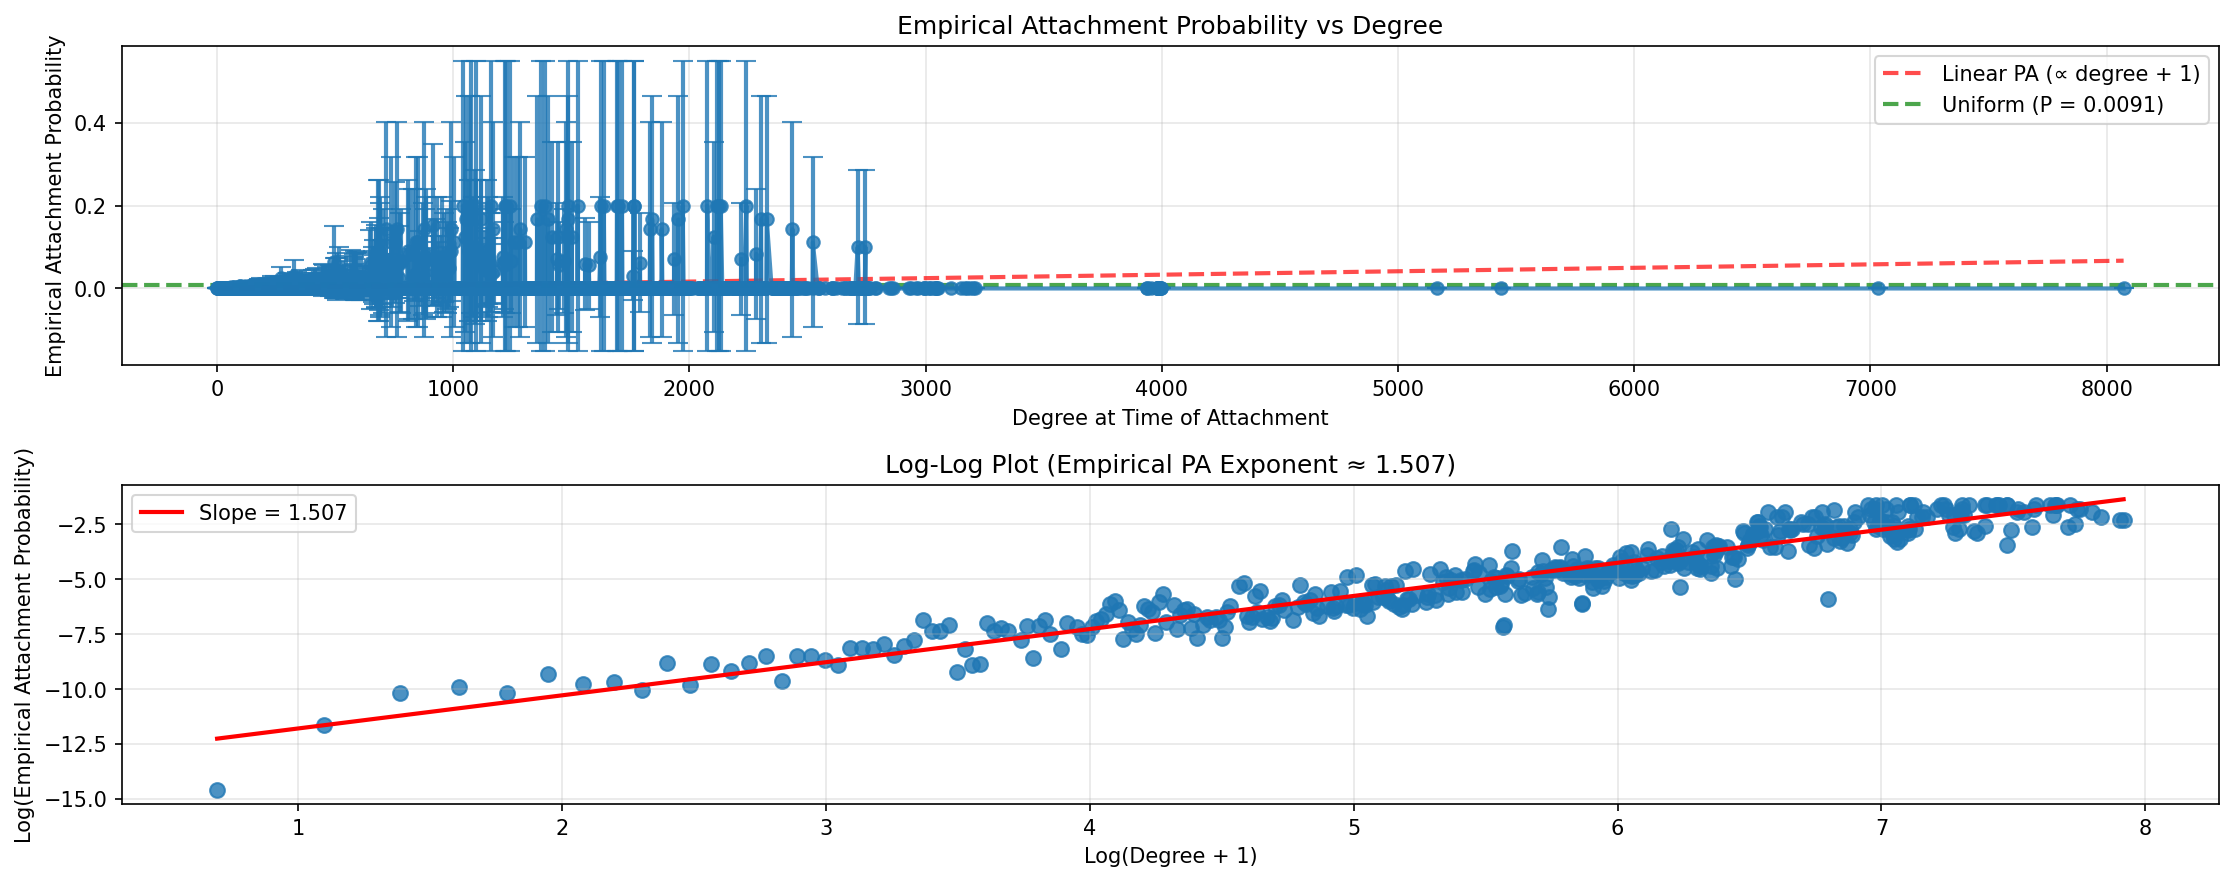
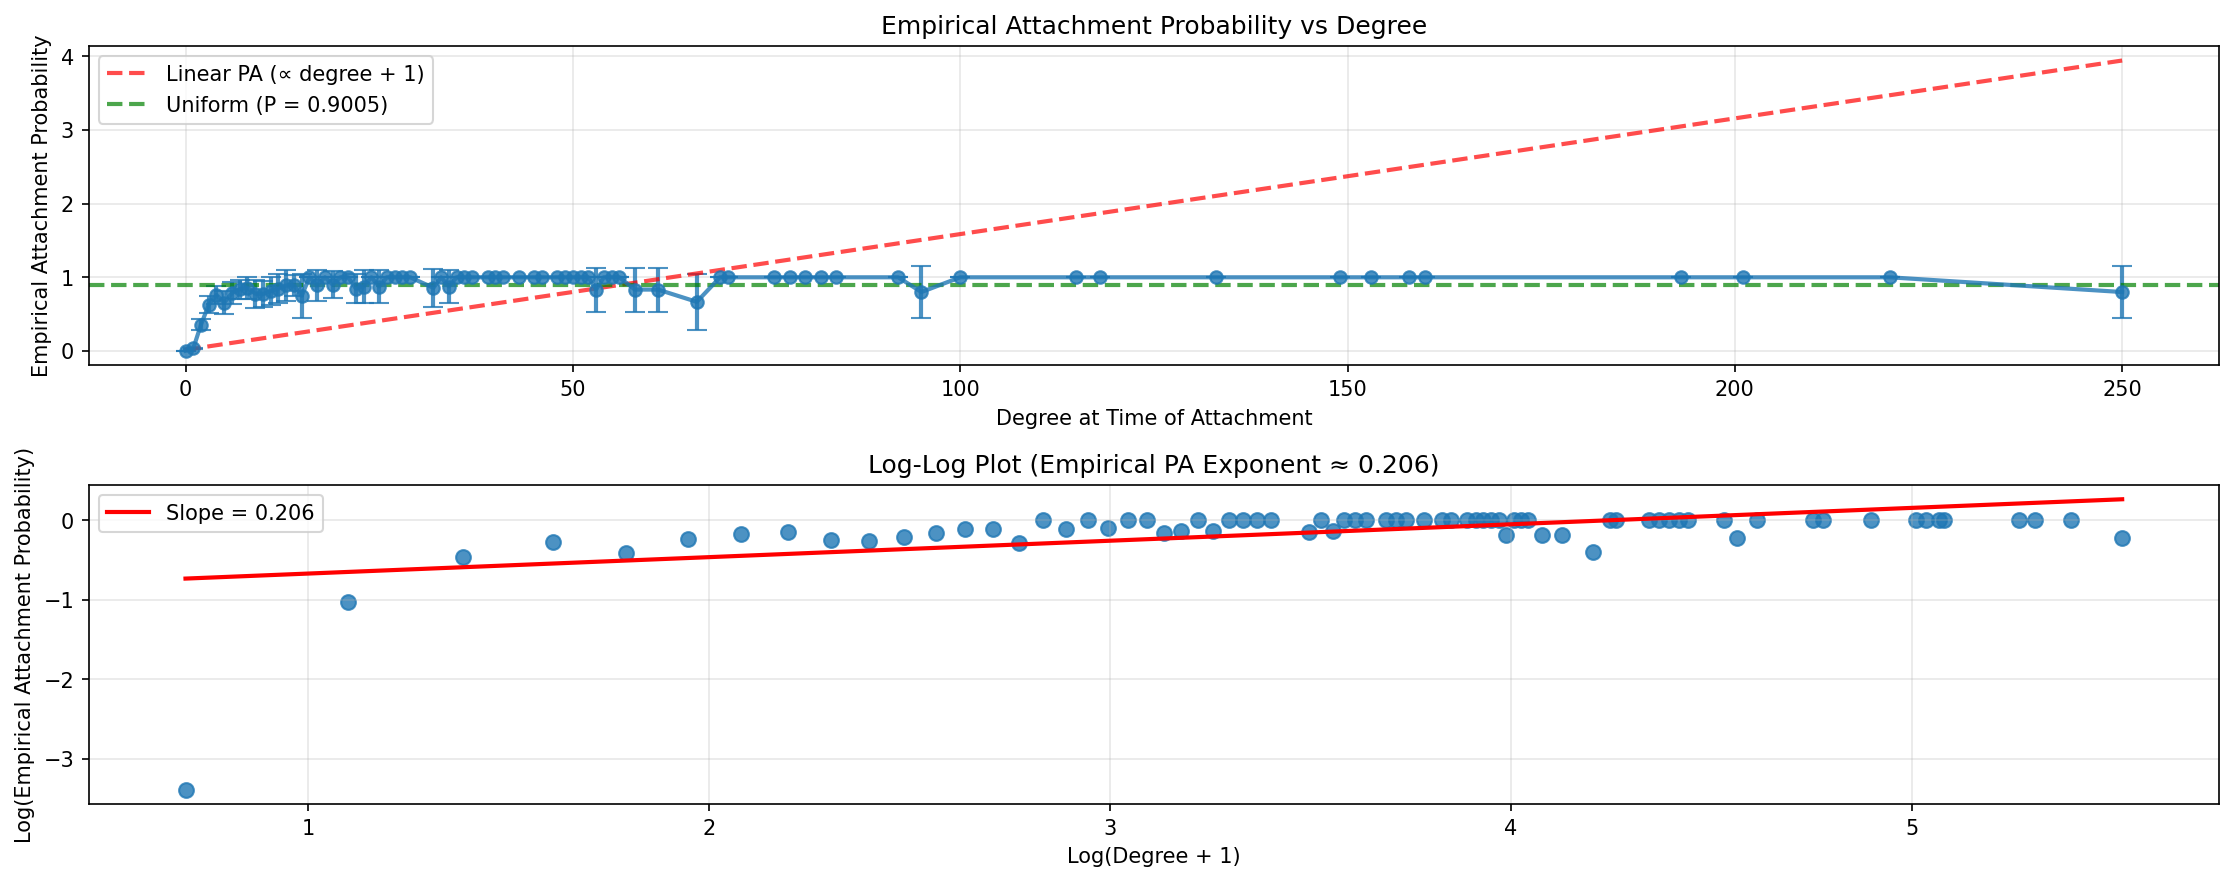
Negative sampling and parallel processing

diff --git a/tori_test.py b/tori_test.py
@@ -2,19 +2,29 @@ import numpy as np
 import matplotlib.pyplot as plt
 import pickle
 import networkx as nx
-import random
 from datetime import datetime
-from collections import defaultdict, Counter
-import json
+from collections import defaultdict
+import bisect
+from multiprocessing import Pool, cpu_count
+from functools import partial
 
 def parse_date(date_str):
     return datetime.fromisoformat(date_str.replace('Z', '+00:00'))
 
-def analyze_empirical_attachment_probs(G, sample_size=None):
+def parse_licenses(license_str):
+    licenses = []
+    license_str = license_str.strip('[]')
+    for license_name in license_str.split(','):
+        license_name = license_name.strip() 
+        license_name = license_name.strip("'")
+        if len(license_name) > 0:
+            licenses.append(license_name)
+    return licenses
+
+def precompute_graph_data(G):
     """
-    P(attach to degree k) = (times degree k was chosen) / (times degree k was available)
+    Precompute adjacency with neighbor timestamps for faster degree calculation / lookups
     """
-        
     node_dates = {}
     for node, attrs in G.nodes.data():
         if 'createdAt' in attrs:
@@ -22,89 +32,147 @@ def analyze_empirical_attachment_probs(G, sample_size=None):
                 node_dates[node] = parse_date(attrs['createdAt'])
             except:
                 continue
+    
+    adjacency_with_dates = {}
+    for node in G.nodes():
+        neighbors = set(G.predecessors(node)) | set(G.successors(node))
+        adjacency_with_dates[node] = [
+            (neighbor, node_dates.get(neighbor)) 
+            for neighbor in neighbors 
+            if neighbor in node_dates
+        ]
+    
+    return node_dates, adjacency_with_dates
+
+def compute_degree_at_time_fast(neighbor_date_pairs, attachment_time):
+    return sum(1 for _, date in neighbor_date_pairs if date < attachment_time)
+
+def process_edge_chunk(edge_chunk, node_array, date_array, adjacency_with_dates, negative_sample_ratio):
+    """
+    Process a chunk of edges in parallel.
+    Returns: 
+        - local degree opportunities 
+        - degree chosen counts
+    """
+    local_opportunities = defaultdict(int)
+    local_chosen = defaultdict(int)
+    
+    for attachment_time, newer_node, target_node in edge_chunk:
+        # Binary search to find available nodes
+        idx = bisect.bisect_left(date_array, attachment_time)
+        mask = node_array[:idx] != newer_node
+        available_nodes = node_array[:idx][mask]
         
-    edges_with_dates = []
-    for u, v in G.edges():
-        if u in node_dates and v in node_dates:
-            u_date = node_dates[u]
-            v_date = node_dates[v]
+        if len(available_nodes) < 2:
+            continue
+        
+        # Compute target degree (positive sample)
+        if target_node in adjacency_with_dates:
+            target_degree = compute_degree_at_time_fast(
+                adjacency_with_dates[target_node], attachment_time
+            )
+            local_chosen[target_degree] += 1
+            local_opportunities[target_degree] += 1
+        
+        # Sample negatives
+        non_target_mask = available_nodes != target_node
+        non_target_nodes = available_nodes[non_target_mask]
+        
+        if len(non_target_nodes) == 0:
+            continue
             
-            if u_date != v_date: 
-                # (attachment_time, newer_node, older_node)
-                if u_date < v_date:
-                    edges_with_dates.append((v_date, v, u))  # v attached to u
-                else:
-                    edges_with_dates.append((u_date, u, v))  # u attached to v
+        num_negatives = min(negative_sample_ratio, len(non_target_nodes))
+        negative_indices = np.random.choice(len(non_target_nodes), num_negatives, replace=False)
+        
+        for idx in negative_indices:
+            neg_node = non_target_nodes[idx]
+            if neg_node in adjacency_with_dates:
+                neg_degree = compute_degree_at_time_fast(
+                    adjacency_with_dates[neg_node], attachment_time
+                )
+                local_opportunities[neg_degree] += 1
+    
+    return dict(local_opportunities), dict(local_chosen)
+
+def analyze_empirical_attachment_probs(G, sample_size=None, negative_sample_ratio=5, n_jobs=None):
+    """
+    Parallel version using multiprocessing for very large graphs.
+    
+    Args:
+        G: NetworkX graph
+        sample_size: Number of edges to sample (None = use all)
+        negative_sample_ratio: Number of negative samples per positive
+        n_jobs: Number of parallel workers (None = use all CPU cores)
+    
+    Returns:
+        empirical_probs: Dictionary of degree -> attachment probability
+        degree_opportunities: Dictionary of degree -> number of times available
+        degree_chosen: Dictionary of degree -> number of times chosen
+    """
+    if n_jobs is None:
+        n_jobs = cpu_count()
+    
+    # print(f"Using {n_jobs} parallel workers...")
+    
+
+    node_dates, adjacency_with_dates = precompute_graph_data(G)
+
+    edges_with_dates = [
+        (v_date, v, u) if u_date < v_date else (u_date, u, v)
+        for u, v in G.edges()
+        if (u_date := node_dates.get(u)) and (v_date := node_dates.get(v)) and u_date != v_date
+    ]
     
     edges_with_dates.sort(key=lambda x: x[0])
     
     if sample_size and len(edges_with_dates) > sample_size:
-        sampled_indices = sorted(random.sample(range(len(edges_with_dates)), sample_size))
-        edges_with_dates = [edges_with_dates[i] for i in sampled_indices]
+        sampled_indices = np.random.choice(len(edges_with_dates), sample_size, replace=False)
+        edges_with_dates = [edges_with_dates[i] for i in sorted(sampled_indices)]
     
-    degree_opportunities = defaultdict(int)  # Times each degree was available
-    degree_chosen = defaultdict(int)         # Times each degree was actually chosen
+    # print(f"Processing {len(edges_with_dates)} edges...")
     
-    attachment_events = []
+    sorted_nodes = sorted(node_dates.items(), key=lambda x: x[1])
+    node_array = np.array([n[0] for n in sorted_nodes], dtype=object)
+    date_array = np.array([n[1] for n in sorted_nodes])
     
-    for i, (attachment_time, newer_node, target_node) in enumerate(edges_with_dates):
-        # Find all nodes that existed before this attachment time
-        available_nodes = []
-        for node, creation_date in node_dates.items():
-            if creation_date < attachment_time and node != newer_node:
-                available_nodes.append(node)
-        
-        if len(available_nodes) < 2:  
-            continue
-            
-        # Calculate degree of each available node at attachment time
-        node_degrees_at_time = {}
-        
-        for node in available_nodes:
-            degree_at_time = 0
-            all_neighbors = set(G.predecessors(node)) | set(G.successors(node))
-            
-            for neighbor in all_neighbors:
-                if neighbor in node_dates and node_dates[neighbor] < attachment_time:
-                    degree_at_time += 1
-            
-            node_degrees_at_time[node] = degree_at_time
-        
-        for node, degree in node_degrees_at_time.items():
-            degree_opportunities[degree] += 1
-        
-        if target_node in node_degrees_at_time:
-            target_degree = node_degrees_at_time[target_node]
-            degree_chosen[target_degree] += 1
-            
-            attachment_events.append({
-                'target_node': target_node,
-                'newer_node': newer_node,
-                'target_degree': target_degree,
-                'attachment_time': attachment_time,
-                'num_choices_available': len(available_nodes),
-                'available_degrees': list(node_degrees_at_time.values()),
-                'mean_available_degree': np.mean(list(node_degrees_at_time.values())),
-                'max_available_degree': max(node_degrees_at_time.values()) if node_degrees_at_time else 0
-            })
-    
-    empirical_probs = {}
-    degree_counts = {}
-    
-    for degree in degree_opportunities.keys():
-        opportunities = degree_opportunities[degree]
-        chosen = degree_chosen[degree]
-        
-        if opportunities > 0:
-            empirical_probs[degree] = chosen / opportunities
-            degree_counts[degree] = chosen
-        else:
-            empirical_probs[degree] = 0
-            degree_counts[degree] = 0
-    
-    return attachment_events, empirical_probs, degree_opportunities, degree_chosen
 
-def plot_empirical_attachment_analysis(attachment_events, empirical_probs, degree_opportunities, degree_chosen, min_opportunities=5):
+    chunk_size = max(1, len(edges_with_dates) // n_jobs)
+    chunks = [edges_with_dates[i:i + chunk_size] for i in range(0, len(edges_with_dates), chunk_size)]
+    
+    print(f"Split into {len(chunks)} chunks of ~{chunk_size} edges each")
+    
+    process_func = partial(
+        process_edge_chunk,
+        node_array=node_array,
+        date_array=date_array,
+        adjacency_with_dates=adjacency_with_dates,
+        negative_sample_ratio=negative_sample_ratio
+    )
+    
+    with Pool(n_jobs) as pool:
+        results = pool.map(process_func, chunks)
+    
+    # Merge results from all workers
+    degree_opportunities = defaultdict(int)
+    degree_chosen = defaultdict(int)
+    
+    for local_opp, local_chosen in results:
+        for degree, count in local_opp.items():
+            degree_opportunities[degree] += count
+        for degree, count in local_chosen.items():
+            degree_chosen[degree] += count
+    
+    empirical_probs = {
+        degree: degree_chosen[degree] / degree_opportunities[degree]
+        for degree in degree_opportunities.keys()
+        if degree_opportunities[degree] > 0
+    }
+    
+    print(f"Analyzed {len(degree_opportunities)} unique degree values")
+    
+    return empirical_probs, degree_opportunities, degree_chosen
+
+def plot_empirical_attachment_analysis(empirical_probs, degree_opportunities, degree_chosen, min_opportunities=5):
     
     filtered_degrees = []
     filtered_probs = []
@@ -194,25 +262,59 @@ def plot_empirical_attachment_analysis(attachment_events, empirical_probs, degre
     
     return filtered_degrees, filtered_probs, filtered_opportunities
 
+# def plot_license_data(G):
+#     license_children = defaultdict(list)
+#     for node_name in G.nodes:
+#         node = G.nodes[node_name]
+#         licenses = parse_licenses(node['licenses'])
+#         for license in licenses:
+#             license_children[license].append(len(set(G.successors(node_name))))
+    
+
+#     avgs = defaultdict(int)
+#     for license in license_children:
+#         avg = sum(license_children[license]) / len(license_children[license])
+#         if avg > 0.01:
+#             avgs[license] = avg
+
+#     fig, ax = plt.subplots(1,1,figsize=(25, 12))
+
+#     licenses = avgs.keys() 
+#     counts = avgs.values()
+#     ax.bar(licenses, counts, label=licenses)
+#     print(licenses)
+#     ax.set_ylabel('Average # of Children')
+#     ax.set_title('Avg. Counts by License')
+#     # ax.legend(title='License Name')
+#     ax.tick_params(axis='x', labelrotation=35)
+
+#     plt.savefig('license_counts.png')
+
+
+
 if __name__ == "__main__":
+    """
+    Example node: 
+
+    moonshotai/Kimi-K2-Instruct: {'likes': 479, 'downloads': 13356, 'pipeline_tag': 'text-generation', 
+        'library_name': 'transformers', 'createdAt': '2025-07-11T00:55:12.000Z', 'licenses': "['other']", 
+        'datasets': '[]', 'languages': '[]'}
+
+        
+    Example edge:
+
+    (moonshotai/Kimi-K2-Instruct, yujiepan/kimi-k2-tiny-random): {'edge_types': ['finetune'], 
+        'edge_type': 'finetune', 'change_in_likes': -478, 'percentage_change_in_likes': -0.9979123173277662, 
+        'change_in_downloads': -13356, 'percentage_change_in_downloads': -1.0, 'change_in_createdAt_days': 1}
+    """
+    
     G = pickle.load(open('data/ai_ecosystem_graph_finetune.pkl', 'rb'))
     
-    sample_size = 1000  
-    attachment_events, empirical_probs, degree_opportunities, degree_chosen = analyze_empirical_attachment_probs(G, sample_size=sample_size)
-    
-    if attachment_events:
-        degrees, probs, opportunities = plot_empirical_attachment_analysis(
-            attachment_events, empirical_probs, degree_opportunities, degree_chosen, min_opportunities=5)
-        
-        # results = {
-        #     'attachment_events': len(attachment_events),
-        #     'empirical_probabilities': empirical_probs,
-        #     'degree_opportunities': dict(degree_opportunities),
-        #     'degree_chosen': dict(degree_chosen)
-        # }
-        
-        # with open("empirical_attachment_analysis.json", "w") as f:
-        #     json.dump(results, f, indent=2)
-        
-    else:
-        print("No attachment events found.")
+    # plot_license_data(G)
+   
+ 
+    # attachment_events, empirical_probs, degree_opportunities, degree_chosen = analyze_empirical_attachment_probs(G, sample_size=sample_size)
+    # empirical_probs, degree_opportunities, degree_chosen = analyze_with_balanced_negative_sampling(G, sample_size=1000, negatives_per_degree=2)
+    empirical_probs, degree_opportunities, degree_chosen = analyze_empirical_attachment_probs(G, sample_size=None, negative_sample_ratio=20)
+    plot_empirical_attachment_analysis(empirical_probs, degree_opportunities, degree_chosen, min_opportunities=11)
+   
